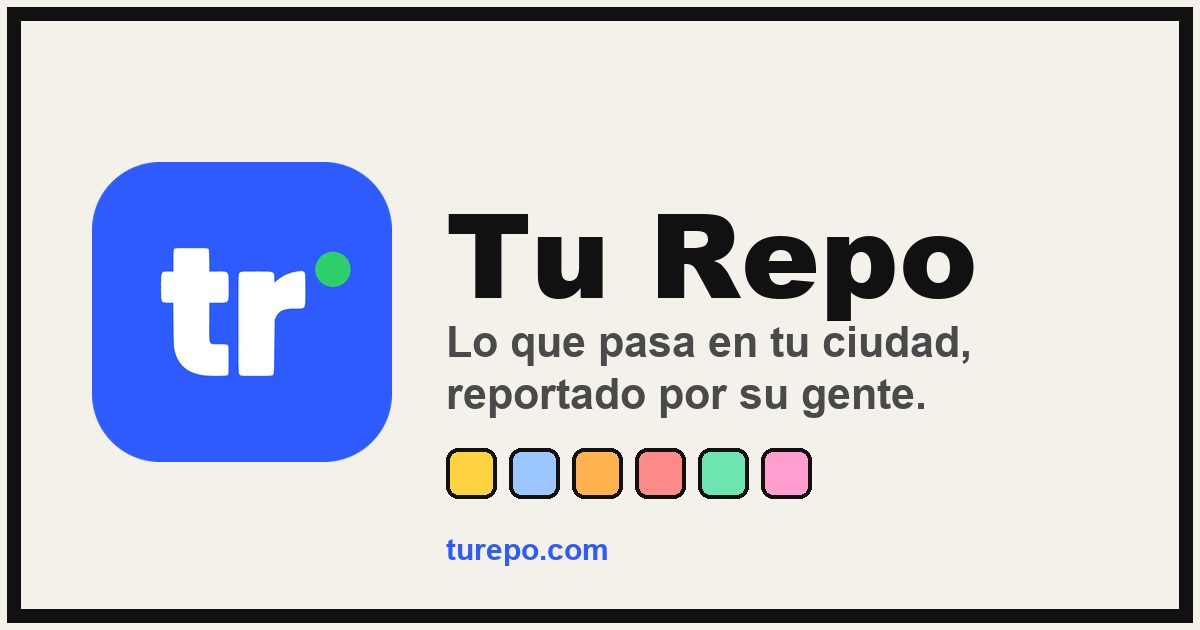
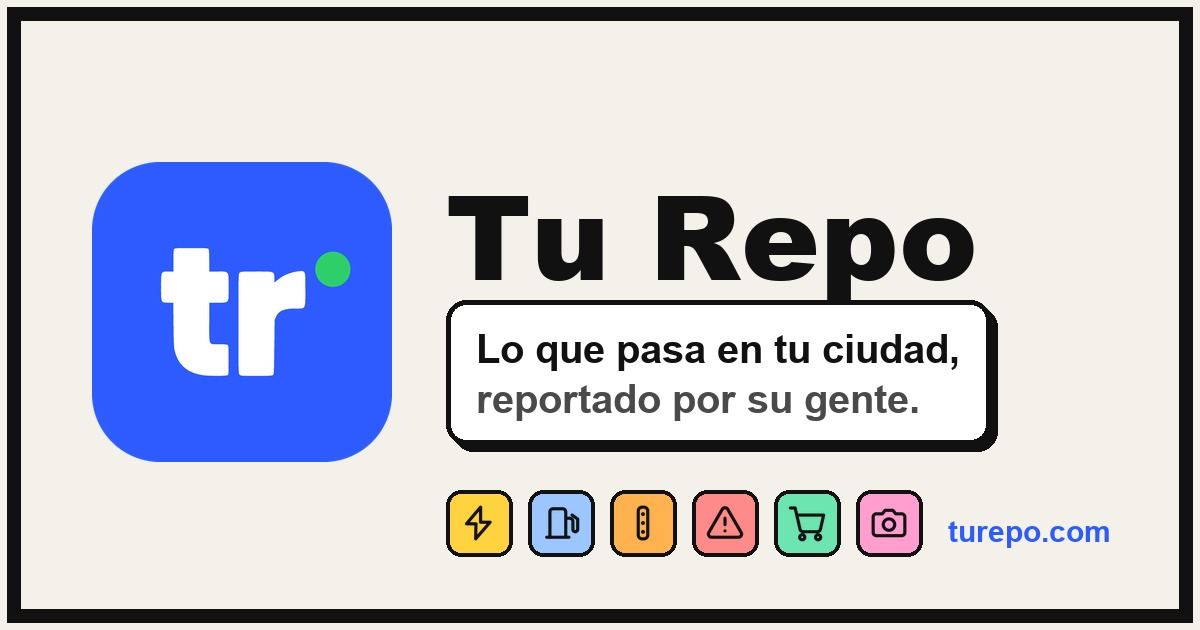
og.jpg mas profesional: frase en tarjeta brutalista + iconos en los chips
La frase ahora va en una tarjeta blanca con borde negro y sombra dura
(mismo estilo que las tarjetas de reportes recientes). Cada chip de
categoria lleva su icono real de la app (rayo/surtidor/semaforo/alerta/
carrito/camara) rasterizado con resvg, en su color de identidad con
borde negro. turepo.com junto a los chips.

Changed region(s): [[0.37, 0.3016, 0.925, 0.9048]]

diff --git a/logo/og.py b/logo/og.py
@@ -1,4 +1,8 @@
+"""og.jpg brutalista: logo + 'Tu Repo' + frase en TARJETA + chips CON iconos.
+Los iconos se rasterizan con resvg (mismos SVG que usa la app).
+"""
 from PIL import Image, ImageDraw, ImageFont
+import resvg_py
 
 W, H = 1200, 630
 BG = (243, 241, 234)
@@ -13,28 +17,65 @@ d = ImageDraw.Draw(img)
 bw = 14
 d.rectangle([bw // 2, bw // 2, W - bw // 2 - 1, H - bw // 2 - 1], outline=INK, width=bw)
 
-# logo azul
+# logo azul (icono crisp)
 logo = Image.open('icon-512.png').convert('RGBA').resize((300, 300), Image.LANCZOS)
 img.paste(logo, (92, 162), logo)
 
 F = 'C:/Windows/Fonts/'
 black = ImageFont.truetype(F + 'ariblk.ttf', 118)
-bold = ImageFont.truetype(F + 'arialbd.ttf', 43)
+bold = ImageFont.truetype(F + 'arialbd.ttf', 40)
 small = ImageFont.truetype(F + 'arialbd.ttf', 30)
 
 x = 446
-d.text((x, 168), 'Tu Repo', font=black, fill=INK)
-d.text((x, 318), 'Lo que pasa en tu ciudad,', font=bold, fill=GREY)
-d.text((x, 370), 'reportado por su gente.', font=bold, fill=GREY)
+d.text((x, 150), 'Tu Repo', font=black, fill=INK)
 
-# chips de color (las 6 categorias)
-cols = [(255, 210, 63), (156, 198, 255), (255, 178, 77), (255, 138, 138), (108, 229, 176), (255, 158, 207)]
-cx, cy, sz, gap = x, 448, 50, 13
-for c in cols:
-    d.rounded_rectangle([cx, cy, cx + sz, cy + sz], radius=12, fill=c, outline=INK, width=4)
+# --- frase en tarjeta brutalista (estilo .post: borde negro + sombra dura) ---
+def rrect(draw, box, r, **kw):
+    draw.rounded_rectangle(box, radius=r, **kw)
+
+line1, line2 = 'Lo que pasa en tu ciudad,', 'reportado por su gente.'
+pad_x, pad_y, lh, radius, bdr, shadow = 30, 26, 50, 20, 5, 7
+tw = max(d.textlength(line1, font=bold), d.textlength(line2, font=bold))
+card_w = int(tw + pad_x * 2)
+card_h = pad_y * 2 + lh * 2 - 8
+cx0, cy0 = x, 300
+# sombra dura
+rrect(d, [cx0 + shadow, cy0 + shadow, cx0 + card_w + shadow, cy0 + card_h + shadow], radius, fill=INK)
+# tarjeta blanca con borde negro
+rrect(d, [cx0, cy0, cx0 + card_w, cy0 + card_h], radius, fill=(255, 255, 255), outline=INK, width=bdr)
+d.text((cx0 + pad_x, cy0 + pad_y), line1, font=bold, fill=INK)
+d.text((cx0 + pad_x, cy0 + pad_y + lh), line2, font=bold, fill=GREY)
+
+# --- chips de categoria CON icono (estilo .post .pic) ---
+INNER = {
+ 'bolt': '<path d="M13 2 4.1 12.5h6L9.9 22 19 11.5h-6L13 2z"/>',
+ 'pump': '<path d="M5 21V5a2 2 0 0 1 2-2h6a2 2 0 0 1 2 2v16"/><path d="M3 21h14"/><path d="M15 9h2.5a2 2 0 0 1 2 2v5a1.5 1.5 0 0 0 3 0V9.5L19 7"/>',
+ 'traffic': '<rect x="9" y="2" width="6" height="20" rx="2.4"/><circle cx="12" cy="6.4" r="1.25" fill="currentColor" stroke="none"/><circle cx="12" cy="12" r="1.25" fill="currentColor" stroke="none"/><circle cx="12" cy="17.6" r="1.25" fill="currentColor" stroke="none"/>',
+ 'alert': '<path d="M10.3 3.3 1.8 18a2 2 0 0 0 1.7 3h17a2 2 0 0 0 1.7-3L13.7 3.3a2 2 0 0 0-3.4 0z"/><path d="M12 9v4"/><path d="M12 17h.01"/>',
+ 'cart': '<circle cx="9" cy="21" r="1.6"/><circle cx="19" cy="21" r="1.6"/><path d="M1.5 2.5h3l3.1 13.4a2 2 0 0 0 2 1.6h8.9a2 2 0 0 0 2-1.6L22.5 7H6"/>',
+ 'camera': '<path d="M14.5 4h-5L7.8 6.2H4a2 2 0 0 0-2 2V18a2 2 0 0 0 2 2h16a2 2 0 0 0 2-2V8.2a2 2 0 0 0-2-2h-3.8L14.5 4z"/><circle cx="12" cy="13" r="3.6"/>',
+}
+
+def icon_png(name, px, color='#111'):
+    inner = INNER[name].replace('currentColor', color)
+    svg = ('<svg xmlns="http://www.w3.org/2000/svg" width="%d" height="%d" '
+           'viewBox="0 0 24 24" fill="none" stroke="%s" stroke-width="2" '
+           'stroke-linecap="round" stroke-linejoin="round">%s</svg>' % (px*3, px*3, color, inner))
+    raw = bytes(resvg_py.svg_to_bytes(svg_string=svg))
+    im = Image.open(__import__('io').BytesIO(raw)).convert('RGBA')
+    return im.resize((px, px), Image.LANCZOS)
+
+chips = [((255,210,63),'bolt'), ((156,198,255),'pump'), ((255,178,77),'traffic'),
+         ((255,138,138),'alert'), ((108,229,176),'cart'), ((255,158,207),'camera')]
+sz, gap, ic = 66, 16, 38
+cx, cy = x, 490
+for col, name in chips:
+    rrect(d, [cx, cy, cx + sz, cy + sz], 15, fill=col, outline=INK, width=4)
+    ico = icon_png(name, ic)
+    img.paste(ico, (cx + (sz - ic)//2, cy + (sz - ic)//2), ico)
     cx += sz + gap
 
-d.text((x, 532), 'turepo.com', font=small, fill=BLUE)
+d.text((x + sz * 6 + gap * 5 + 26, 514), 'turepo.com', font=small, fill=BLUE)
 
-img.save('og.jpg', 'JPEG', quality=90)
+img.save('og.jpg', 'JPEG', quality=92)
 print('og.jpg generado', img.size)